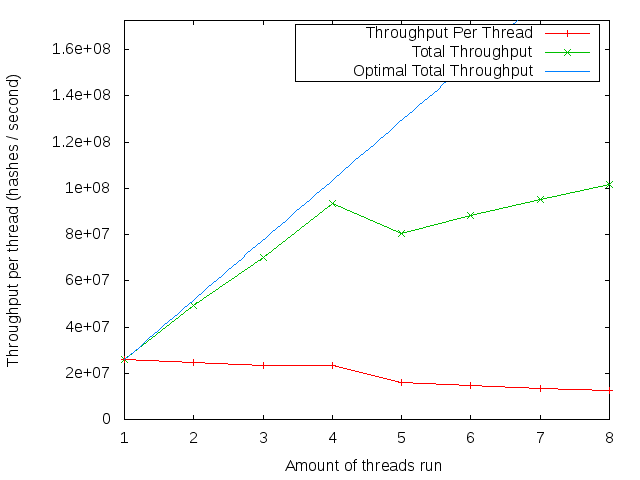
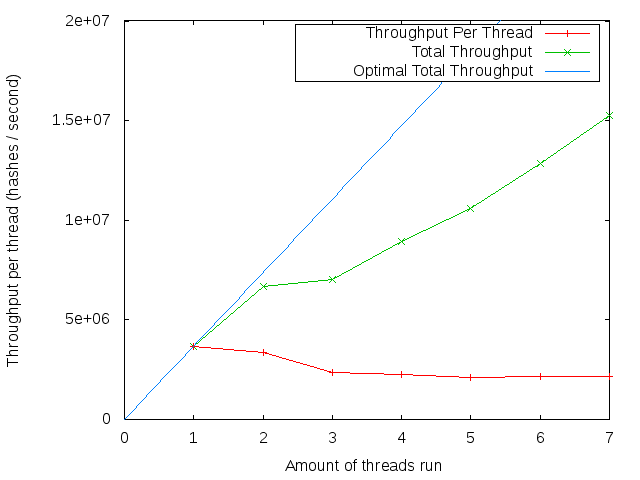
Update to core test and run scripts

diff --git a/src/tabulation_hash_test.cpp b/src/tabulation_hash_test.cpp
@@ -224,7 +224,7 @@ std::map<value_t, std::uint32_t> test_exponential(multicore_hash::abstract_hash<
  * Returns the total amount of nanoseconds spent.
  */
 template<typename value_t>
-void test_length_performance(multicore_hash::abstract_hash<value_t> *hash, std::uint32_t amount, const std::uint8_t max_key_len, std::ofstream *data_file) {
+void test_length_performance(multicore_hash::abstract_hash<value_t> *hash, std::uint32_t amount, const std::uint8_t max_key_len, std::ofstream *out_file) {
   using namespace std::chrono;
   // Warmup
   auto start = high_resolution_clock::now();
@@ -299,7 +299,7 @@ void test_length_performance(multicore_hash::abstract_hash<value_t> *hash, std::
   }
 
   for (std::uint8_t k = 0; k < max_key_len; k++) {
-    *data_file << std::to_string(k) + "\t" + std::to_string(time_means[k]) + "\t" + std::to_string(sqrt(time_vars[k]/its)) + "\n";
+    *out_file << std::to_string(k) + "\t" + std::to_string(time_means[k]) + "\t" + std::to_string(sqrt(time_vars[k]/its)) + "\n";
   }
   for (std::uint8_t k = 0; k < max_key_len; k++)
     delete[] keys[k];
@@ -311,7 +311,7 @@ void test_length_performance(multicore_hash::abstract_hash<value_t> *hash, std::
  * Returns the total amount of nanoseconds spent.
  */
 template<typename value_t, std::uint32_t num_tables>
-void test_length_performance_tab(multicore_hash::tabulation_hash<value_t, num_tables> *hash, std::uint32_t amount, const std::uint8_t max_key_len, std::ofstream *data_file) {
+void test_length_performance_tab(multicore_hash::tabulation_hash<value_t, num_tables> *hash, std::uint32_t amount, const std::uint8_t max_key_len, std::ofstream *out_file) {
   using namespace std::chrono;
   // Warmup
   auto start = high_resolution_clock::now();
@@ -384,7 +384,7 @@ void test_length_performance_tab(multicore_hash::tabulation_hash<value_t, num_ta
   }
 
   for (std::uint8_t k = 0; k < used_length_amounts; k++) {
-    *data_file << std::to_string((k*stride)+1) + "\t" + std::to_string(time_means[k]) + "\t" + std::to_string(sqrt(time_vars[k]/its)) + "\n";
+    *out_file << std::to_string((k*stride)+1) + "\t" + std::to_string(time_means[k]) + "\t" + std::to_string(sqrt(time_vars[k]/its)) + "\n";
   }
   delete[] keys;
 }
@@ -398,11 +398,11 @@ void test_core_performance_tab(multicore_hash::tabulation_hash<value_t, num_tabl
 }
 
 template<typename value_t, std::uint32_t num_tables>
-void test_cores_performance_tab(multicore_hash::tabulation_hash<value_t, num_tables> *hash, std::uint8_t num_threads, std::uint8_t byte_len, std::uint32_t amount) {
+uint64_t test_cores_performance_tab(multicore_hash::tabulation_hash<value_t, num_tables> *hash, std::uint8_t num_threads, std::uint8_t byte_len, std::uint32_t amount) {
   using namespace std::chrono;
   // Warmup
   auto start = high_resolution_clock::now();
- generate_random_strings_uniform(1, 1000);
+  generate_random_strings_uniform(1, 1000);
   auto end = high_resolution_clock::now();
 
   auto tab_hash = new multicore_hash::tabulation_hash<value_t, num_tables>();           
@@ -434,6 +434,7 @@ void test_cores_performance_tab(multicore_hash::tabulation_hash<value_t, num_tab
   std::cout << "Total Time:      " << total_time << "ms / " << (uint64_t)(amount*num_threads*iterations*1000)/total_time << " TP."<<  std::endl;
 
   delete[] keys;
+  return (uint64_t)(amount*iterations*1000)/total_time;
 }
 
 int main(int argc, char *argv[]) {
@@ -499,17 +500,23 @@ int main(int argc, char *argv[]) {
   /****************************************/
   /*********** General testing ************/
   /****************************************/
-  std::ofstream data_file;
+  std::ofstream out_file;
+  std::ifstream in_file;
+  char * in_buffer;
+  std::string in_str;
+  std::uint32_t in_size;
+  std::uint64_t thread_tp;
+
   const uint16_t interval_amount = 256;
         uint32_t intervals[interval_amount];
-  for (std::uint8_t i = 0; i < interval_amount; i++)
+  for (std::uint16_t i = 0; i < interval_amount; i++)
     intervals[i] = 0;
 
   std::map<value_t, std::uint32_t> hist;
 
   std::uint32_t dist_amount = 5000000 ;
   std::uint32_t len_amount  = 5;
-  std::uint8_t  num_threads = 7;
+  std::uint8_t  num_threads = (NUM_THREADS_DEF == -1 ? 7 : NUM_THREADS_DEF);
 
   switch ((int)(argv[2][0]-'0')) {
   case 0:   test_type = "_uniform_dist";
@@ -522,25 +529,37 @@ int main(int argc, char *argv[]) {
             hist = test_exponential(hash, dist_amount, key_bytes);
             break;
   case 3:   test_type = "_length";
-            data_file.open ("Results/Length/" + hash_type + std::to_string(num_tables) + test_type + ".txt");
+            out_file.open ("Results/Length/" + hash_type + std::to_string(num_tables) + test_type + ".txt");
             if (hash_type == "Tabulation")
-              test_length_performance_tab<value_t, num_tables>(tab_hash, len_amount, key_len_bytes, &data_file);
+              test_length_performance_tab<value_t, num_tables>(tab_hash, len_amount, key_len_bytes, &out_file);
             else
-              test_length_performance<value_t>(hash, len_amount, key_len_bytes, &data_file);
-            data_file.flush();
-            data_file.close();
+              test_length_performance<value_t>(hash, len_amount, key_len_bytes, &out_file);
+            out_file.flush();
+            out_file.close();
             break;
   case 4:   test_type = "_cores";
-            // data_file.open ("Results/Cores/" + hash_type + std::to_string(num_tables) + test_type + ".txt");
-            // if (hash_type == "Tabulation")
-            for (uint8_t nt = 1; nt <= num_threads; nt++) {
-              std::cout << "Using " << (int)nt << " threads:" << std::endl;
-              test_cores_performance_tab<value_t, num_tables>(tab_hash, nt, key_len_bytes, len_amount);
+            if (num_threads != 1)
+            {
+              in_file.open ("Results/Cores/" + hash_type + std::to_string(num_tables) + test_type + ".txt");
+
+              // get size of file
+              in_file.seekg(0,std::ifstream::end);
+              in_size=in_file.tellg();
+              in_file.seekg(0);
+ 
+              // allocate memory for file content
+              in_buffer = new char [in_size];
+ 
+              // read content of in_file
+              in_file.read (in_buffer,in_size);
+              in_str = std::string(in_buffer, in_size);
+              in_file.close();
             }
-            // else
-              // test_length_performance<value_t>(hash, len_amount, key_len_bytes, &data_file);
-            // data_file.flush();
-            // data_file.close();
+            thread_tp = test_cores_performance_tab<value_t, num_tables>(tab_hash, num_threads, key_len_bytes, len_amount);
+            out_file.open ("Results/Cores/" + hash_type + std::to_string(num_tables) + test_type + ".txt");
+            out_file << (num_threads == 1 ? "" : in_str) << (int)num_threads << "\t" << thread_tp << std::endl;
+            out_file.flush();
+            out_file.close();
             break;
   default:  std::cout << "Unknown Test Type" << std::endl;
             return 0;
@@ -552,9 +571,9 @@ int main(int argc, char *argv[]) {
       intervals[p.first/(std::numeric_limits<value_t>::max()/interval_amount)] += p.second;
     
     std::string path = "Results/Distribution/" + hash_type + test_type + ".txt";
-    data_file.open (path);
-    data_file.clear();
-    if (!data_file.is_open())
+    out_file.open (path);
+    out_file.clear();
+    if (!out_file.is_open())
       std::cout << "Data file isn't open." << std::endl;
 
     // Printing histogram results
@@ -563,13 +582,13 @@ int main(int argc, char *argv[]) {
     std::map<std::uint8_t, std::uint32_t> bin_hist;
     for (std::uint16_t i = 0; i < interval_amount; i++)
     {
-      data_file << i << "\t" << intervals[i] << "\n";
+      out_file << i << "\t" << intervals[i] << "\n";
       bin_hist[i] = intervals[i];
     }
-    data_file.flush();
-    if (data_file.fail())
+    out_file.flush();
+    if (out_file.fail())
       std::cout << "Something failed" << std::endl;
-    data_file.close();
+    out_file.close();
     print_spread_statistics<std::uint8_t>(bin_hist);
   }
 
